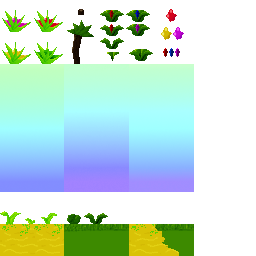
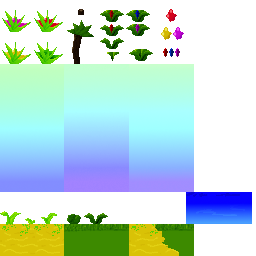
Clean up.

Changed region(s): [[0.7188, 0.75, 1.0, 0.875]]

diff --git a/Assets/WorldPartyActions.cs b/Assets/WorldPartyActions.cs
@@ -36,7 +36,9 @@ public class WorldPartyActions : MonoBehaviour {
         return true;
     }
 
-    public void AdvanceParty() {
+    public void AdvanceParty()
+    {
+        ClearRest();
         int currentPosition = party.party.NumberLinePosition;
         if (CanPartyEnter(currentPosition + 1))
         {
@@ -47,6 +49,7 @@ public class WorldPartyActions : MonoBehaviour {
     }
     public void RetreatParty()
     {
+        ClearRest();
         int currentPosition = party.party.NumberLinePosition;
         if (CanPartyEnter(currentPosition - 1))
         {
@@ -57,6 +60,7 @@ public class WorldPartyActions : MonoBehaviour {
     }
     public void PartyAttack()
     {
+        ClearRest();
         int currentPosition = party.party.NumberLinePosition;
         foreach (WorldItem item in world.world.GetItemsAt(currentPosition - 1, currentPosition + 1))
         {
@@ -66,11 +70,11 @@ public class WorldPartyActions : MonoBehaviour {
                 return;
             }
         }
-
         TriggerPartyAttack();
     }
     public void PartyHarvest()
     {
+        ClearRest();
         int currentPosition = party.party.NumberLinePosition;
         foreach (WorldItem item in world.world.GetItemsAt(currentPosition - 1, currentPosition + 1))
         {
@@ -81,12 +85,20 @@ public class WorldPartyActions : MonoBehaviour {
             }
         }
     }
+    private void ClearRest()
+    {
+        foreach (PartyMemberStatus partyMemberStatus in party.party.partyStatus.Values)
+        {
+            partyMemberStatus.resting = false;
+        }
+    }
     public void PartyRest()
     {
         party.party.Rest();
     }
     public void PartyCraft()
     {
+        ClearRest();
         party.party.Craft();
     }
 

diff --git a/Assets/WorldRenderer.cs b/Assets/WorldRenderer.cs
@@ -7,6 +7,7 @@ public class WorldRenderer : MonoBehaviour {
     private Tilemap floorTilemap;
     private Tilemap backgroundTilemap;
     private Tilemap foregroundTilemap;
+    public Sprite seaFloorSprite;
     public Sprite beachFloorSprite;
     public Sprite beachSkySprite;
     public Sprite[] beachForegroundSprites;
@@ -29,6 +30,9 @@ public class WorldRenderer : MonoBehaviour {
     
         for (int i = 1; i< 8; i++)
         {
+            Tile floorTile = ScriptableObject.CreateInstance<Tile>();
+            floorTile.sprite = seaFloorSprite;
+            floorTilemap.SetTile(new Vector3Int(-i, 0, 0), floorTile);
             Tile skyTile = ScriptableObject.CreateInstance<Tile>();
             skyTile.sprite = beachSkySprite;
             backgroundTilemap.SetTile(new Vector3Int(-i, 0, 0), skyTile);

diff --git a/Assets/SpiralWorldCamera.cs b/Assets/SpiralWorldCamera.cs
@@ -13,10 +13,7 @@ public class SpiralWorldCamera : MonoBehaviour {
 	
 	// Update is called once per frame
 	void Update () {
-		if (party.party.PositionX > 0 && party.party.PositionX < 246)
-        {
-            Vector3 targetOffset = party.party.retreating ? position1 : position0;
-            transform.Translate(SpiralWorldManager.TranslationToTarget(transform.position.x - position0.x, party.party.NumberLinePosition, movementSpeed * Time.deltaTime));
-        }
+        Vector3 targetOffset = party.party.retreating ? position1 : position0;
+        transform.Translate(SpiralWorldManager.TranslationToTarget(transform.position.x - targetOffset.x, party.party.NumberLinePosition, movementSpeed * Time.deltaTime));
 	}
 }
